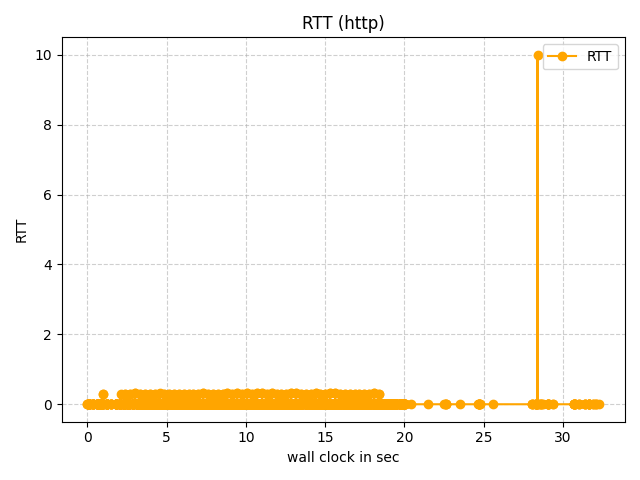
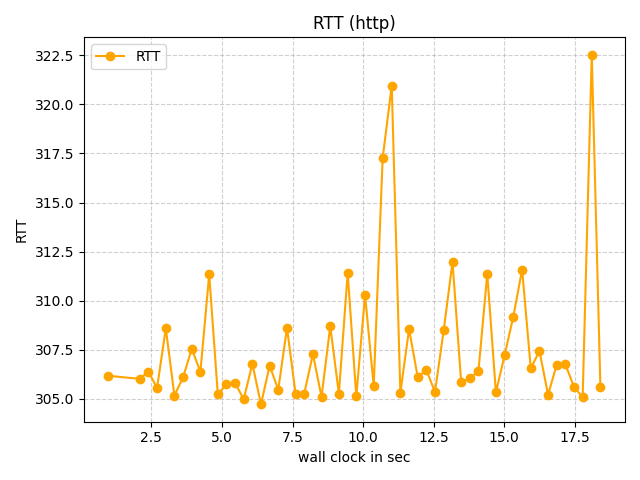
tcp.data

diff --git a/traffic_analysis.py b/traffic_analysis.py
@@ -93,7 +93,7 @@ def is_ipv4(ip: str) -> bool:
     """
     return isinstance(ipaddress.ip_address(ip), ipaddress.IPv4Address)
 
-def perform_thpt(client_ip:str, server_ip:str, do_upload:bool, pcap_filename:str) -> tuple[list]:
+def perform_thpt(client_ip:str, server_ip:str, pcap_filename:str, do_upload:bool) -> tuple[list]:
     """
     performs thpt analysis and reutrns the time and thpt variation
 
@@ -161,113 +161,78 @@ def perform_thpt(client_ip:str, server_ip:str, do_upload:bool, pcap_filename:str
     values = [ (clock_thpt_dict[b] * 8) / (bin_size * 1e6) for b in bins ]  # kbps
     return list(bins), list(values)
 
-def perform_rtt(client_ip:str, server_ip:str, do_upload:bool, pcap_filename:str) -> tuple[list]:
+
+def perform_rtt(client_ip: str, server_ip: str, pcap_file: str, do_upload:bool=False):
     """
-    performs rtt analysis and return time and rtt variation
+    Measure RTTs in a TCP stream based on ACK reception.
+
+    Args:
+        pcap_file: Path to pcap file.
+        client_ip: Client (sender) IP.
+        server_ip: Server (receiver) IP.
+
+    Returns:
+        times: list of timestamps (relative to start) when RTT measured
+        rtts:  list of RTTs in milliseconds
     """
-    if verbose: print(f"working with: client_ip: {client_ip}, server_ip: {server_ip} and pcap_filename: {pcap_filename}")
-    ipv4 = is_ipv4(client_ip)
     client_ip_bytes = get_bytes_from_ip(client_ip)
     server_ip_bytes = get_bytes_from_ip(server_ip)
-    clock_rtt_dict = {}
-    to_ack = {}
-    with open(pcap_filename, 'rb') as f:
+
+    times, rtts = [], []
+    unacknowledged_messages = {}   # seq_num -> (send_time, data_len)
+
+    start_time = None
+    ipv4 = is_ipv4(client_ip)
+    with open(pcap_file, "rb") as f:
         pcap = dpkt.pcap.Reader(f)
 
-        start_time = None
         for time_stamp, buffered_data in pcap:
             if start_time is None:
                 start_time = time_stamp
-            
-            rel_time = time_stamp - start_time
+            rel_ts = time_stamp - start_time
 
-            if rel_time not in clock_rtt_dict:
-                clock_rtt_dict[rel_time] = 0
+            eth_data = dpkt.ethernet.Ethernet(buffered_data)
             
-            eth = dpkt.ethernet.Ethernet(buffered_data)
-
             if ipv4:
-                if not isinstance(eth.data, dpkt.ip.IP): continue
+                if not isinstance(eth_data.data, dpkt.ip.IP):
+                    continue
             else:
-                if not isinstance(eth.data, dpkt.ip6.IP6): continue
+                if not isinstance(eth_data.data, dpkt.ip6.IP6):
+                    continue
             
-            ip_data = eth.data
-
-            if not isinstance(ip_data.data, dpkt.tcp.TCP): continue
+            ip_data = eth_data.data
+            
+            if not isinstance(ip_data.data, dpkt.tcp.TCP):
+                continue
 
             tcp_data = ip_data.data
 
             src = ip_data.src
             dst = ip_data.dst
-            
+
+            seq = tcp_data.seq
+            ack = tcp_data.ack
+
+            # sending packet
             if src==client_ip_bytes and dst==server_ip_bytes:
-                key = tcp_data.seq + len(tcp_data.data)
-                to_ack[key] = rel_time
-                
+                if len(tcp_data.data) > 0:
+                    if seq not in unacknowledged_messages:  # first transmission only
+                        unacknowledged_messages[seq] = (time_stamp, len(tcp_data.data))
+
+            # receiving packet
             elif src==server_ip_bytes and dst==client_ip_bytes:
-                key = tcp_data.ack
-                if key in to_ack:
-                    clock_rtt_dict[rel_time] = rel_time - to_ack[key]
-    if verbose: print(f"number of rtts recorded: {len(clock_rtt_dict)}")
-    return list(clock_rtt_dict.keys()), list(clock_rtt_dict.values())
+                # Check which seqs are being acknowledged
+                to_remove = []
+                for seq, (send_time, length) in unacknowledged_messages.items():
+                    if ack>=seq+length:  # data fully acknowledged, from the messages that were seen previously
+                        rtt = (time_stamp - send_time)
+                        times.append(rel_ts)
+                        rtts.append(rtt)
+                        to_remove.append(seq)
+                # Clean up acknowledged seqs
+                for seq in to_remove:
+                    del unacknowledged_messages[seq]
 
-def tcp_rtt_times(pcap_file: str):
-    """
-    Extract RTTs from TCP packets in a pcap.
-    Returns (times, rtts) where:
-        times = list of timestamps when RTT was measured
-        rtts  = list of RTT values in milliseconds
-    """
-
-    sent_packets = {}   # (src, dst, sport, dport, seq) -> send_time
-    rtts = []
-    times = []
-
-    with open(pcap_file, "rb") as f:
-        pcap = dpkt.pcap.Reader(f)
-
-        for ts, buf in pcap:
-            try:
-                eth = dpkt.ethernet.Ethernet(buf)
-                if not isinstance(eth.data, dpkt.ip.IP):
-                    continue
-                ip = eth.data
-                if not isinstance(ip.data, dpkt.tcp.TCP):
-                    continue
-
-                tcp = ip.data
-
-                # 4-tuple to uniquely identify flow
-                flow = (ip.src, ip.dst, tcp.sport, tcp.dport)
-
-                # If data is being sent (len > 0)
-                if len(tcp.data) > 0:
-                    seq = tcp.seq
-                    # If already seen, it's a retransmission -> ignore
-                    if (flow, seq) not in sent_packets:
-                        sent_packets[(flow, seq)] = ts
-
-                # If this is an ACK
-                if (tcp.flags & dpkt.tcp.TH_ACK):
-                    ack = tcp.ack
-                    # Reverse flow (ACK comes back from other side)
-                    rev_flow = (ip.dst, ip.src, tcp.dport, tcp.sport)
-
-                    # Find if this ACK acknowledges any seq we sent
-                    to_delete = []
-                    for (f, seq), t_sent in sent_packets.items():
-                        if f == rev_flow and seq < ack:
-                            rtt = (ts - t_sent) * 1000.0  # ms
-                            rtts.append(rtt)
-                            times.append(ts)
-                            to_delete.append((f, seq))
-
-                    # cleanup acknowledged packets
-                    for key in to_delete:
-                        del sent_packets[key]
-
-            except (dpkt.UnpackError, ValueError):
-                continue
 
     return times, rtts
 
@@ -310,10 +275,10 @@ def main():
         """)
 
     if do_thpt:
-        x, y =perform_thpt(client_ip, server_ip, do_upload, pcap_filename)
+        x, y =perform_thpt(client_ip, server_ip, pcap_filename, do_upload)
     
     else:
-        x, y = perform_rtt(client_ip, server_ip, True, pcap_filename)
+        x, y = perform_rtt(client_ip, server_ip, pcap_filename,)
 
 
     if do_thpt:

diff --git a/Notes.md b/Notes.md
@@ -66,7 +66,7 @@
 - 10, 142, 192, 172, 
 - so you have these group people who set standards to IP and the Internet 
 - get geo location from: https://www.maxmind.com/en/geoip-web-services-demo
-
+- IP does not have acknowledment in its protocol. this is specific to tcp and hence we can use that only to produce results
 
 ## traceroute
 
@@ -100,7 +100,7 @@
 - my ip: 10.184.13.134, 2001:df4:e000:3fd1::b3ab
 - they are the same because http is an application level protocol and is does not affect the dns lookup, becuase what matters is the domain name, that establishes connection in the link layer, which is determined by the last three words in domain. what protocol is being used does not change the server, hence the ip
 - before submitting make sure to remove the hack to identify s
-
+- check the max limit of data in ping, and think over it wrt piazza and logic, wrt both ipv4,6
 - need to check the slight peek in upload?
 - if time persists explictly show each of the integers on the graph
 ## DNS
